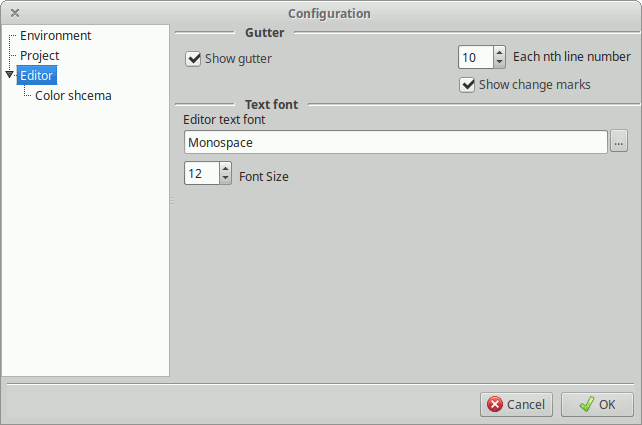
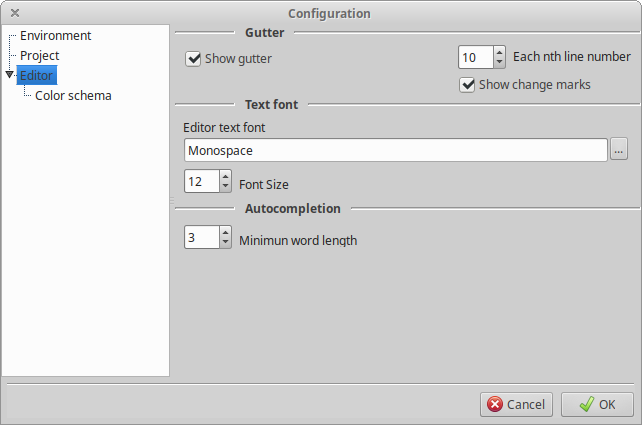
* Fixed "autocompletion closes when writting" behavior. * Fixed editor font configuration: An event was hooked and it shouldn't. - Removed unused data and code. * Updated documentation.

diff --git a/docs/usermanual/html/basics.html b/docs/usermanual/html/basics.html
@@ -53,6 +53,8 @@
   <p>Modified files are marked by an asterisk in the tab.&nbsp; Modified lines are marked
   with a yellow line in the left <em>gutter</em>.</p>
   <p><img src="images/modified-file.png" alt="Modified file"></p>
+  <p>Press <code>Ctrl+Space</code> to open the autocompletion drop-down. Use cursor keys and <code>Intro</code> to select or <code>Esc</code> to close, or just type.</p>
+  <p><img src="images/autocompletion.png" alt="The autocompletion"></p>
 
   <h2 id="save-files">Save Files</h2>
   <p>To save the modified files you can use the <code>File &gt; Save file</code> menu option or

diff --git a/docs/usermanual/html/cfg-editor.html b/docs/usermanual/html/cfg-editor.html
@@ -24,6 +24,8 @@
     Click the button with the <code>...</code> on the right to open the font selector dialog.</li>
     <li><strong>Font size.</strong>  Allows to change the font size.  Note that it can be select
     form the font selector dialog too.</li>
+    <li><strong>Minimun word length.</strong>  The minimun length for a word to be added to the
+      autocompletion list.</li>
   </ul>
 
   <h2 id="color-schema">Color schema</h2>

diff --git a/docs/usermanual/src/cfg-editor.md b/docs/usermanual/src/cfg-editor.md
@@ -15,6 +15,8 @@ This section allows to configure how the source editor looks.
   Click the button with the `...` on the right to open the font selector dialog.
 * **Font size.**  Allows to change the font size.  Note that it can be select
   form the font selector dialog too.
+* **Minimun word length.**  The minimun length for a word to be added to the
+  autocompletion list.
 
 ## Color schema ##
 

diff --git a/docs/usermanual/src/basics.md b/docs/usermanual/src/basics.md
@@ -67,6 +67,11 @@ with a yellow line in the left _gutter_.
 
 ![Modified file](images/modified-file.png)
 
+Press `Ctrl+Space` to open the autocompletion drop-down. Use cursor keys and
+`Intro` to select, or `Esc` to close, or just type.
+
+![The autocompletion](images/autocompletion.png)
+
 ## Save Files ##
 
 To save the modified files you can use the `File > Save file` menu option or
